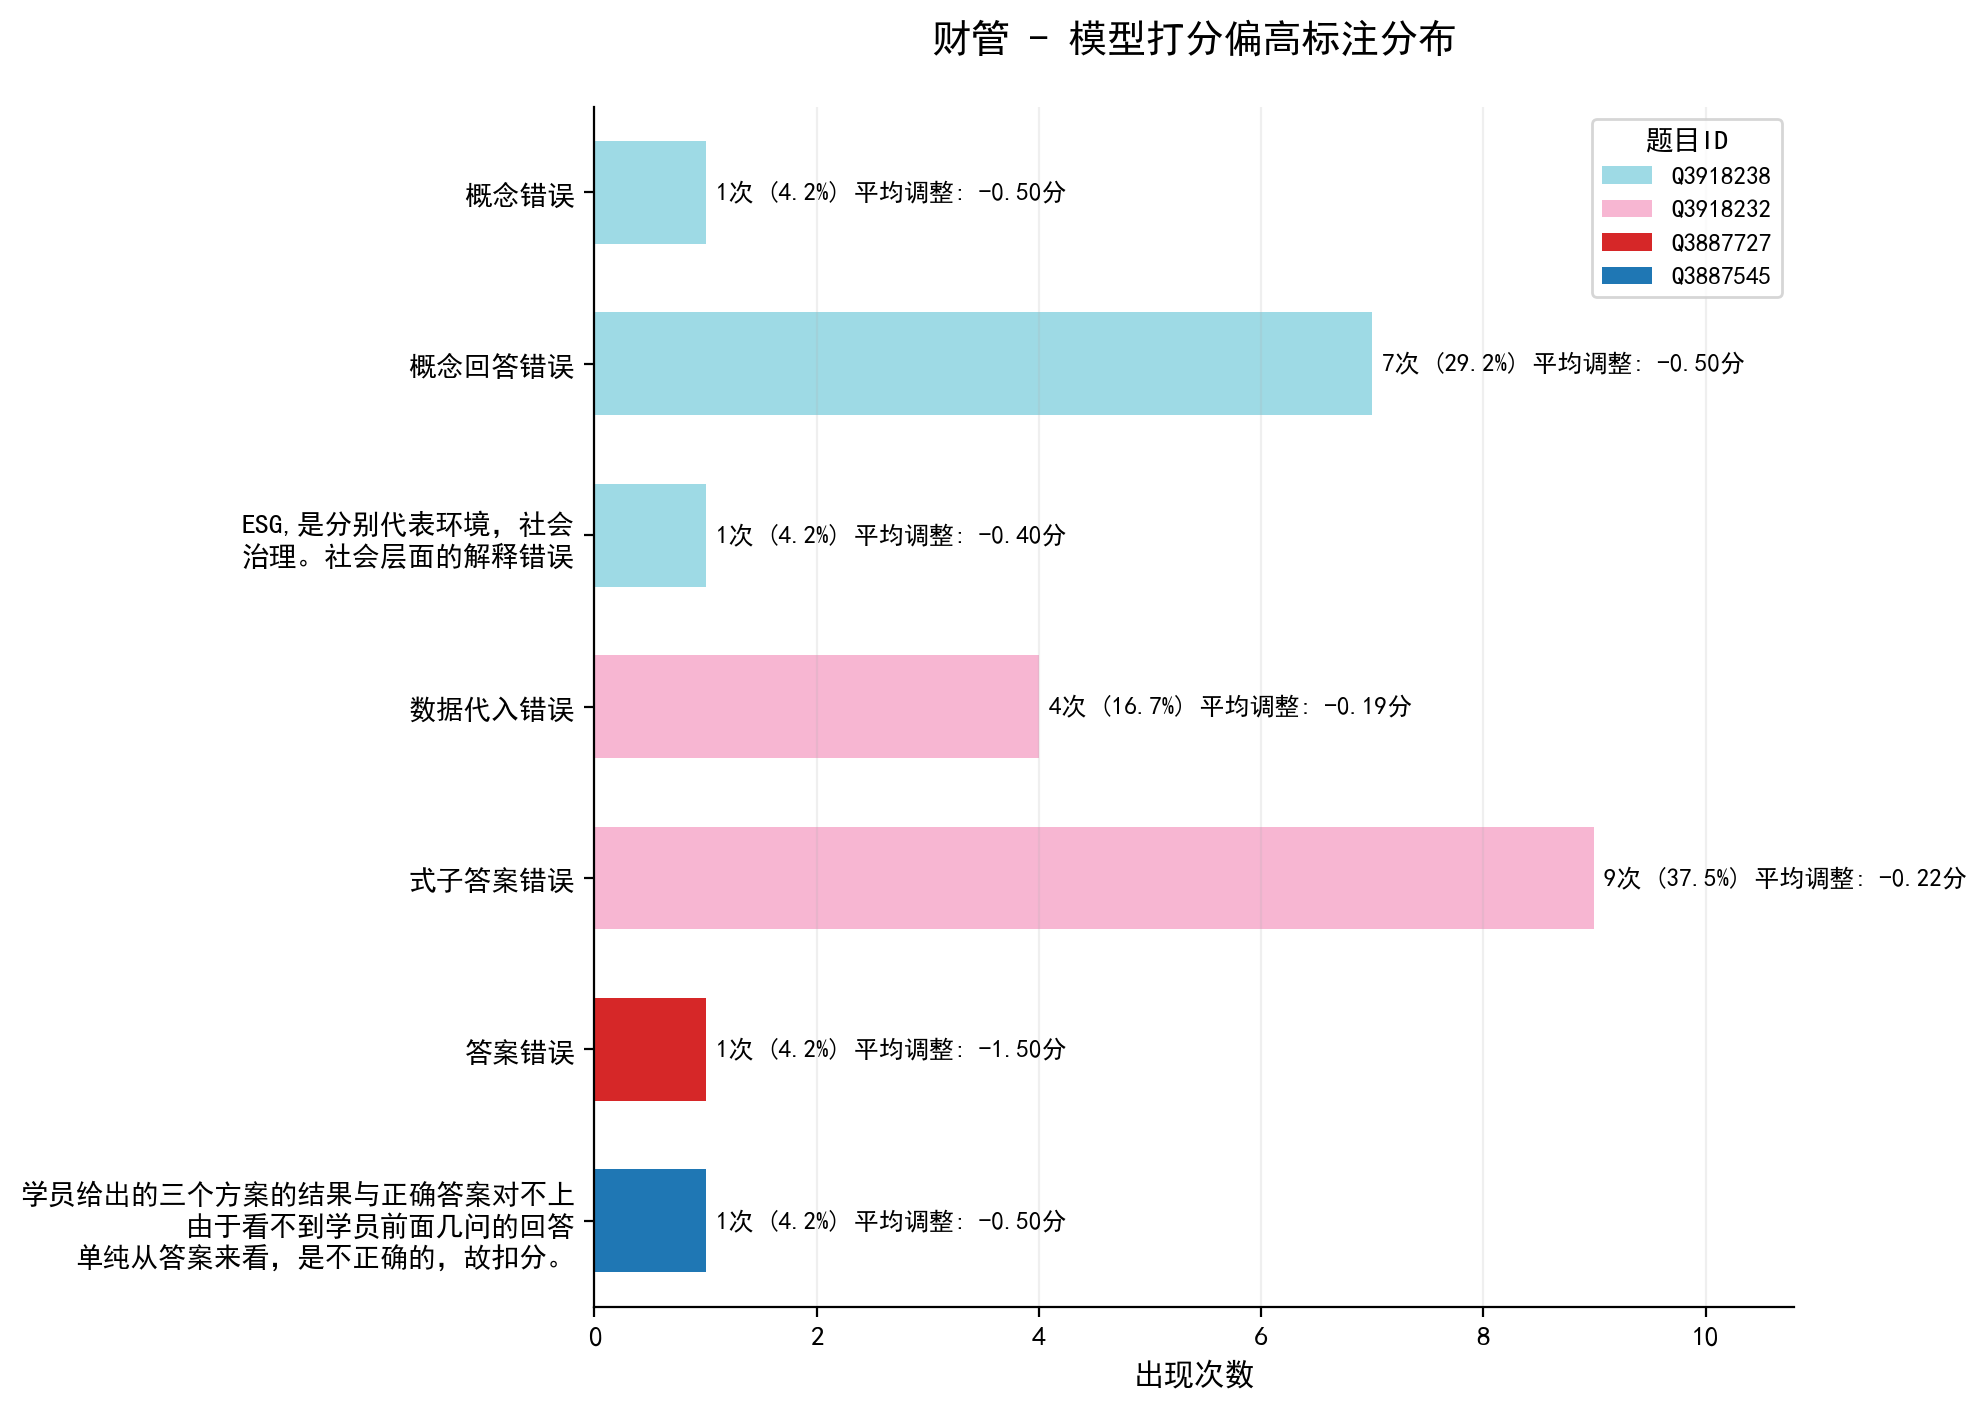
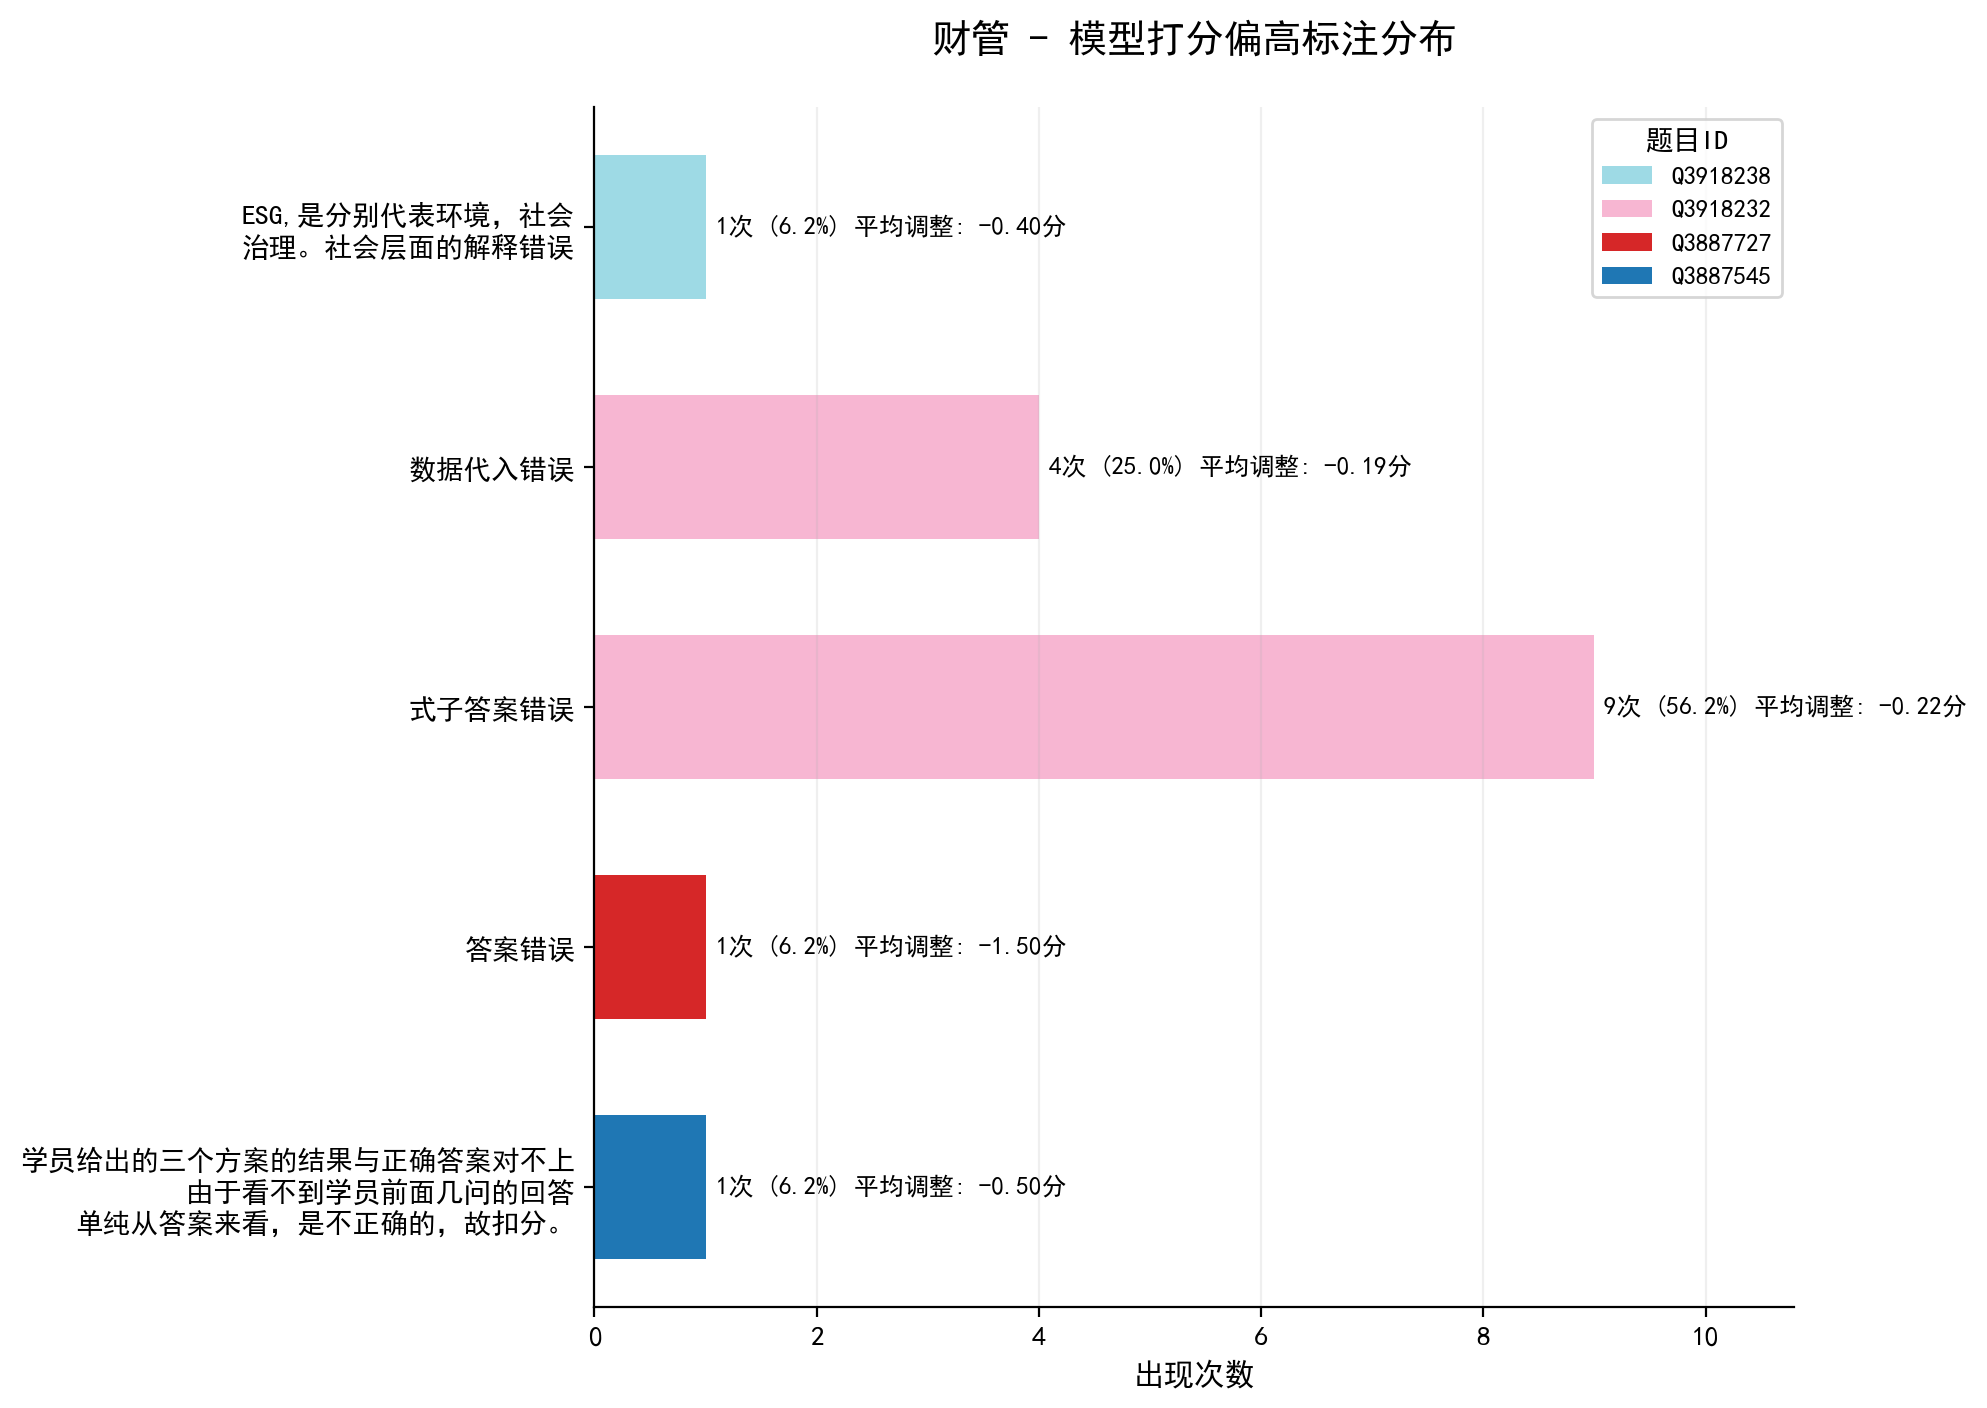
update data strategy

diff --git a/report_output/report.html b/report_output/report.html
@@ -1560,6 +1560,7 @@
                             <li>若专家标注内容包含关键词<strong> ['酌情', '有错字', '过程分', '列式正确，计算结果错误', '要求列出计算过程', '不写也是正确的', '严格', '合并', '拆分']任一字样，且分差不超过0.5分</strong>，视为模型判分合理；</li>
                             <li>经济法中模型判0分、专家给1分的情形，视为模型判分合理（因1分常为象征性给分）；</li>
                             <li>会计中专家标注内容为["报表中的项目名称是固定的，不能因为关键字对了就给分值", "分录正确，只是列示了计算过程，可以得分"]已纳入模型优化逻辑，对应记录判为正确；</li>
+                            <li>财管中专家标注内容为["概念回答错误", "概念错误"]已纳入模型优化逻辑，对应记录判为正确；</li>
                         </ul>
                     </li>
                     <li><strong>容错指标</strong>（在策略修正基础上允许小幅偏差的一致性比例）：
@@ -1598,7 +1599,7 @@
             </tr>
         
             <tr class="subject-end" data-subject="财管">
-        <td>财管</td><td>180</td><td>52.22%</td><td>84.44%</td><td>88.33%</td><td>98.33%</td><td>85.23%</td><td>89.39%</td><td>90.22%</td><td style="font-weight: bold; color: #221BE0;">89.39%</td>
+        <td>财管</td><td>180</td><td>52.22%</td><td>83.33%</td><td>87.78%</td><td>96.67%</td><td>85.23%</td><td>92.56%</td><td>93.38%</td><td style="font-weight: bold; color: #221BE0;">92.56%</td>
             </tr>
         
             <tr class="subject-end" data-subject="会计">
@@ -1610,7 +1611,7 @@
             </tr>
         
             <tr class="subject-end" data-subject="总计">
-        <td>总计</td><td>702</td><td>67.09%</td><td>80.48%</td><td>85.04%</td><td>95.87%</td><td>88.40%</td><td>90.17%</td><td>91.85%</td><td style="font-weight: bold; color: #221BE0;">90.94%</td>
+        <td>总计</td><td>702</td><td>67.09%</td><td>80.20%</td><td>84.90%</td><td>95.44%</td><td>88.40%</td><td>90.77%</td><td>92.45%</td><td style="font-weight: bold; color: #221BE0;">91.54%</td>
             </tr>
         
         </tbody>
@@ -1675,7 +1676,7 @@
             </tr>
         
             <tr class="" data-subject="财管">
-        <td>财管</td><td>观点+计算</td><td>18</td><td>38.89%</td><td>94.44%</td><td>94.44%</td><td>94.44%</td><td>85.00%</td><td>95.19%</td>
+        <td>财管</td><td>观点+计算</td><td>18</td><td>38.89%</td><td>38.89%</td><td>44.44%</td><td>77.78%</td><td>85.00%</td><td>85.00%</td>
             </tr>
         
             <tr class="" data-subject="财管">
@@ -1699,7 +1700,7 @@
             </tr>
         
             <tr class="" data-subject="财管">
-        <td></td><td>文本</td><td>17</td><td>41.18%</td><td>41.18%</td><td>47.06%</td><td>100.00%</td><td>46.88%</td><td>46.88%</td>
+        <td></td><td>文本</td><td>17</td><td>41.18%</td><td>88.24%</td><td>94.12%</td><td>100.00%</td><td>46.88%</td><td>93.75%</td>
             </tr>
         
             <tr class="" data-subject="财管">
@@ -1813,9 +1814,9 @@
       <td>180</td>
       <td>87 (48.3%)</td>
       <td>93 (51.7%)</td>
+      <td>11 (11.8%)</td>
       <td>19 (20.4%)</td>
-      <td>9 (9.7%)</td>
-      <td>65 (69.9%)</td>
+      <td>63 (67.7%)</td>
     </tr>
     <tr>
       <td>会计</td>
@@ -1965,7 +1966,7 @@
                 <div class="barchart-item" data-subject="财管" data-category="模型打分偏高">
                     <div class="chart-section">
                         <h5>财管 - 模型打分偏高</h5>
-                        <p class="chart-stats">记录数: 19 | 标注数: 24</p>
+                        <p class="chart-stats">记录数: 11 | 标注数: 16</p>
                         <div class="chart-scroll-container">
                             <img src="财管_high_model_smart.png" alt="财管模型打分偏高标注分布" 
                                  class="scrollable-chart">
@@ -1976,7 +1977,7 @@
                 <div class="barchart-item" data-subject="财管" data-category="模型打分偏低">
                     <div class="chart-section">
                         <h5>财管 - 模型打分偏低</h5>
-                        <p class="chart-stats">记录数: 9 | 标注数: 9</p>
+                        <p class="chart-stats">记录数: 19 | 标注数: 37</p>
                         <div class="chart-scroll-container">
                             <img src="财管_low_model_smart.png" alt="财管模型打分偏低标注分布" 
                                  class="scrollable-chart">
@@ -1987,7 +1988,7 @@
                 <div class="barchart-item" data-subject="财管" data-category="打分一致">
                     <div class="chart-section">
                         <h5>财管 - 打分一致</h5>
-                        <p class="chart-stats">记录数: 65 | 标注数: 102</p>
+                        <p class="chart-stats">记录数: 63 | 标注数: 82</p>
                         <div class="chart-scroll-container">
                             <img src="财管_consistent_smart.png" alt="财管打分一致标注分布" 
                                  class="scrollable-chart">
